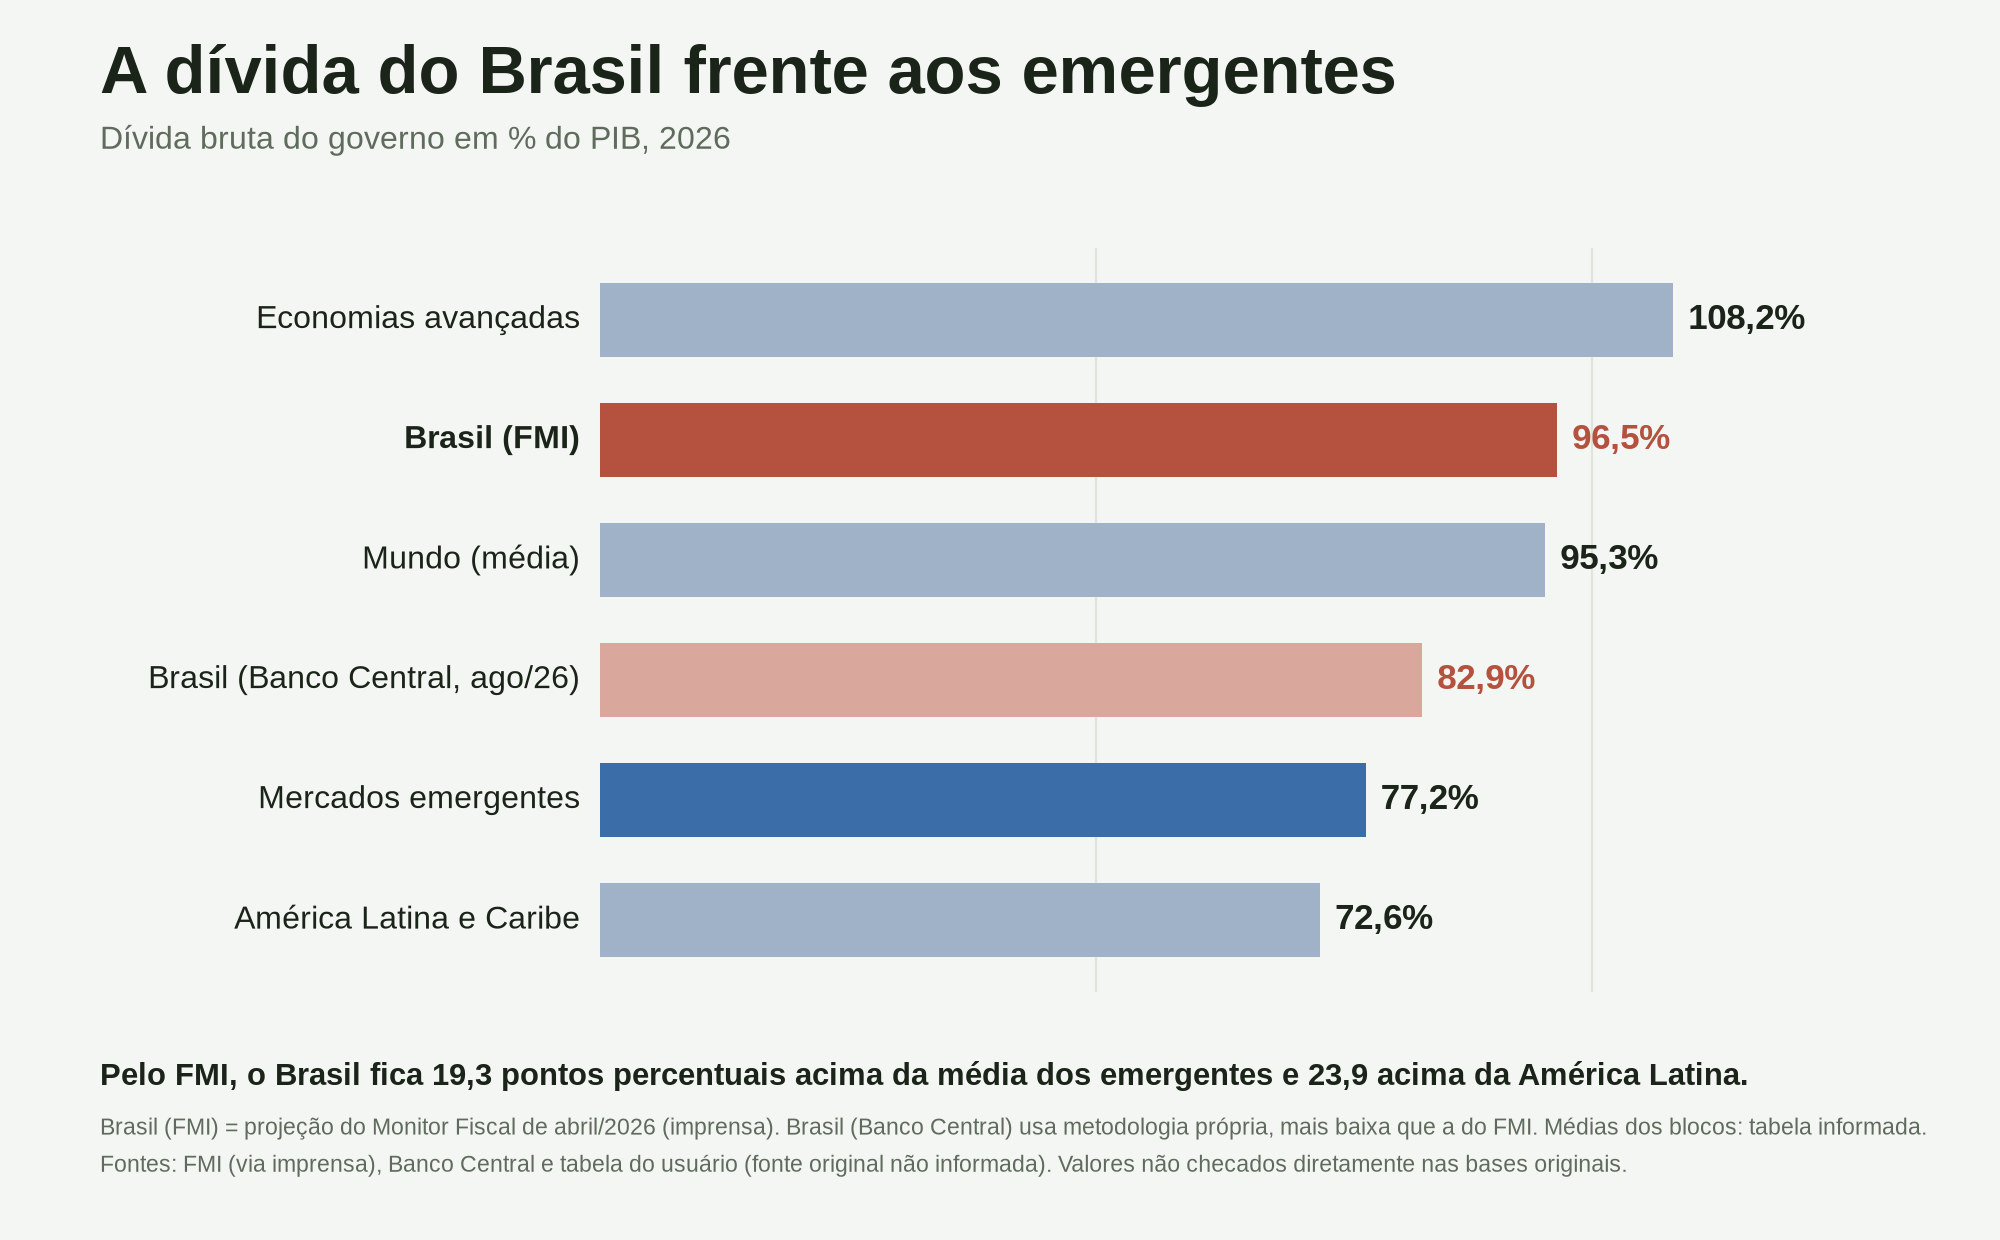
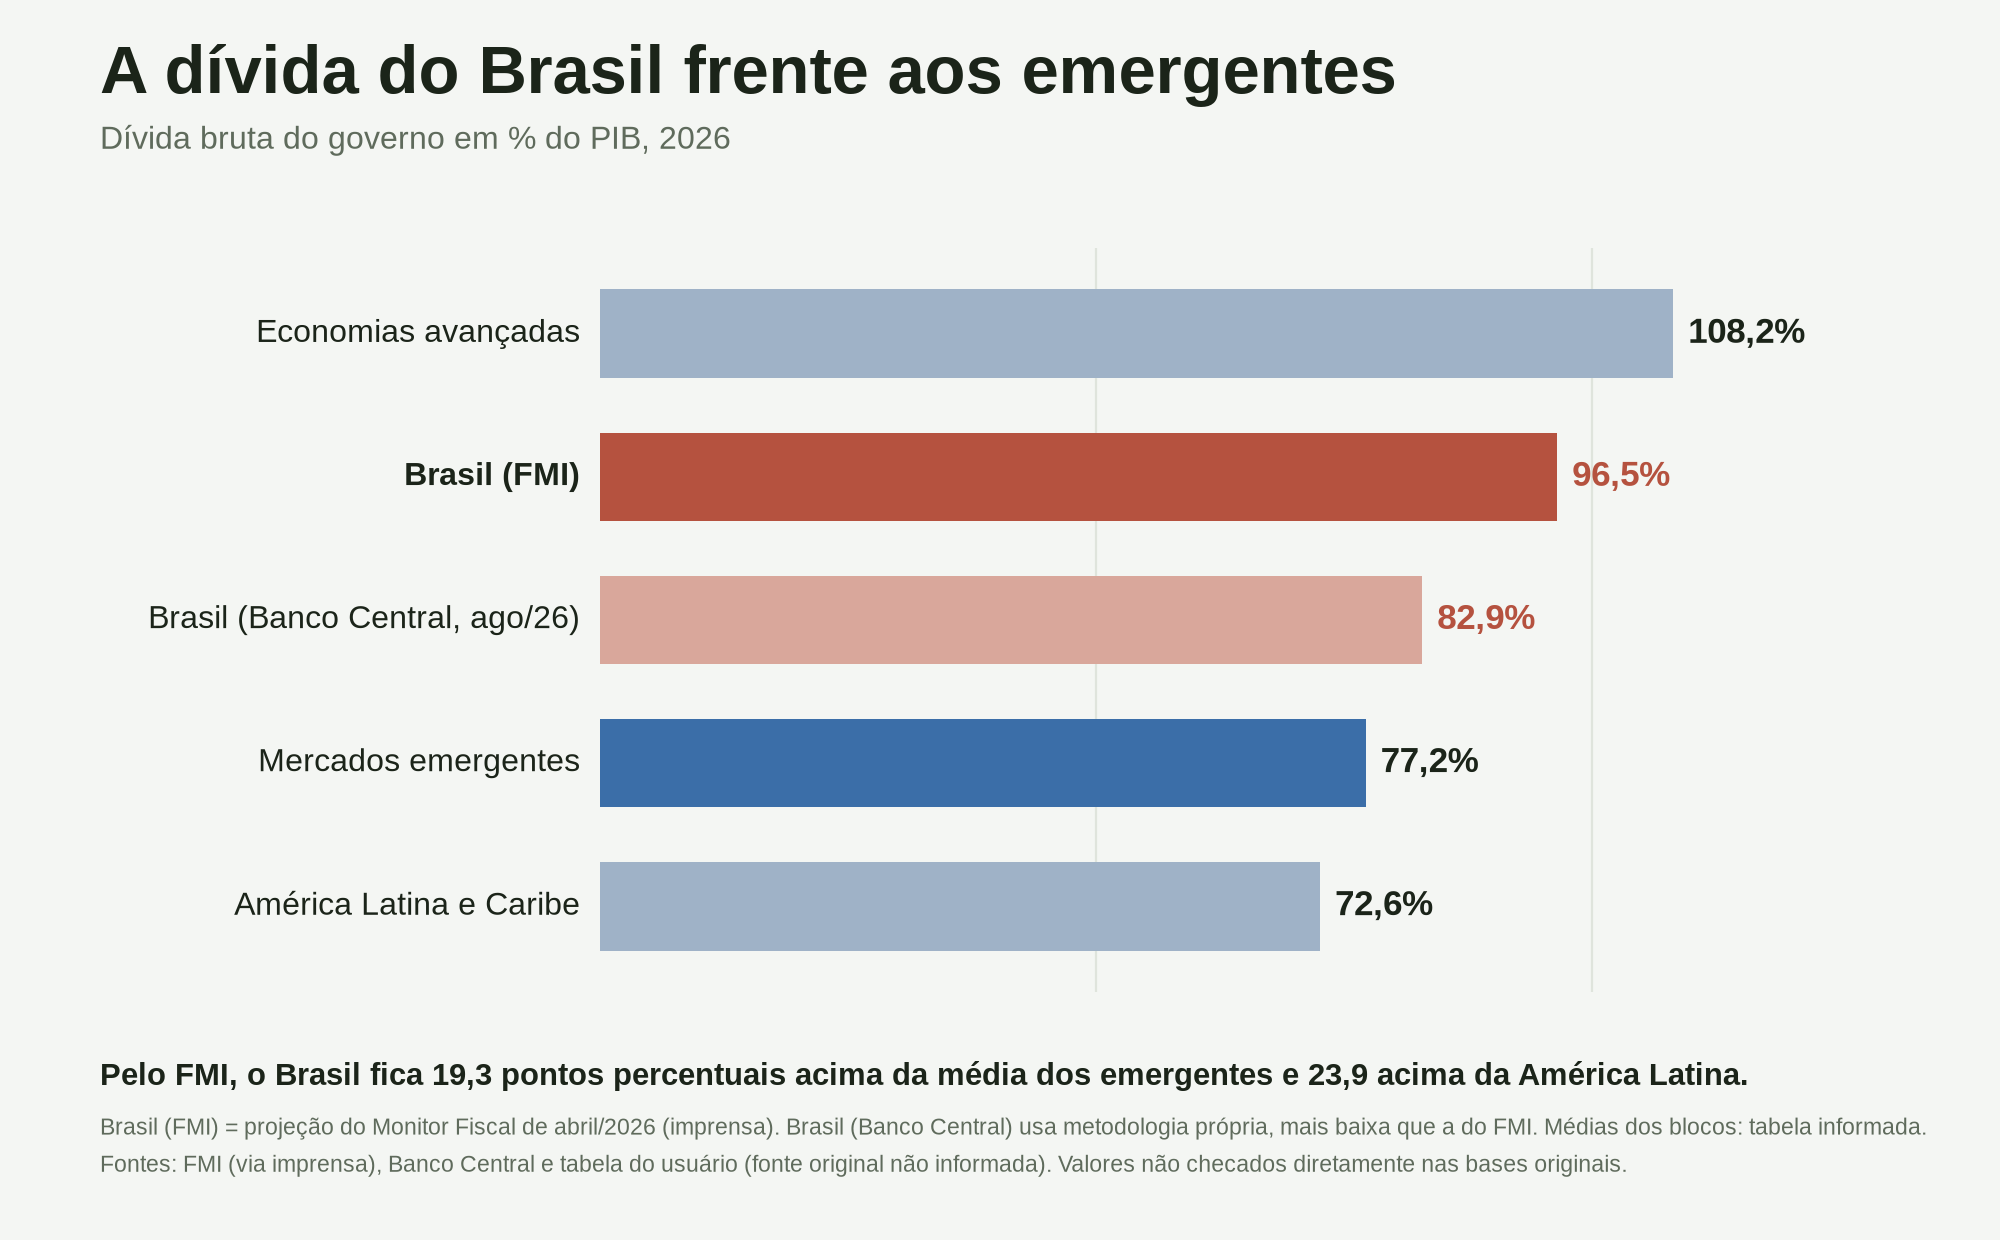
Remove média do mundo do gráfico de dívida/PIB
Claude-Session: https://claude.ai/code/session_0199Y78iJYXbJq94ojXAjU9F

diff --git a/grafico_divida_brasil_vs_emergentes.py b/grafico_divida_brasil_vs_emergentes.py
@@ -12,7 +12,7 @@ BRAS, BRAS2, BLUE, GREY = "#b5523f", "#d9a79b", "#3b6ea8", "#9fb2c7"
 plt.rcParams["font.family"] = "Liberation Sans" if any("Liberation Sans" in f.name for f in fm.fontManager.ttflist) else "DejaVu Sans"
 vb = lambda v: f"{v:.1f}".replace(".", ",") + "%"
 
-ordem = ["Economias avançadas", "Brasil (FMI)", "Mundo (média)", "Brasil (Banco Central)", "Mercados emergentes", "América Latina e Caribe"]
+ordem = ["Economias avançadas", "Brasil (FMI)", "Brasil (Banco Central)", "Mercados emergentes", "América Latina e Caribe"]
 nomes = {"Economias avançadas": "Economias avançadas", "Brasil (FMI)": "Brasil (FMI)", "Mundo (média)": "Mundo (média)",
          "Brasil (Banco Central)": "Brasil (Banco Central, ago/26)", "Mercados emergentes": "Mercados emergentes", "América Latina e Caribe": "América Latina e Caribe"}
 cores = {"Brasil (FMI)": BRAS, "Brasil (Banco Central)": BRAS2}
